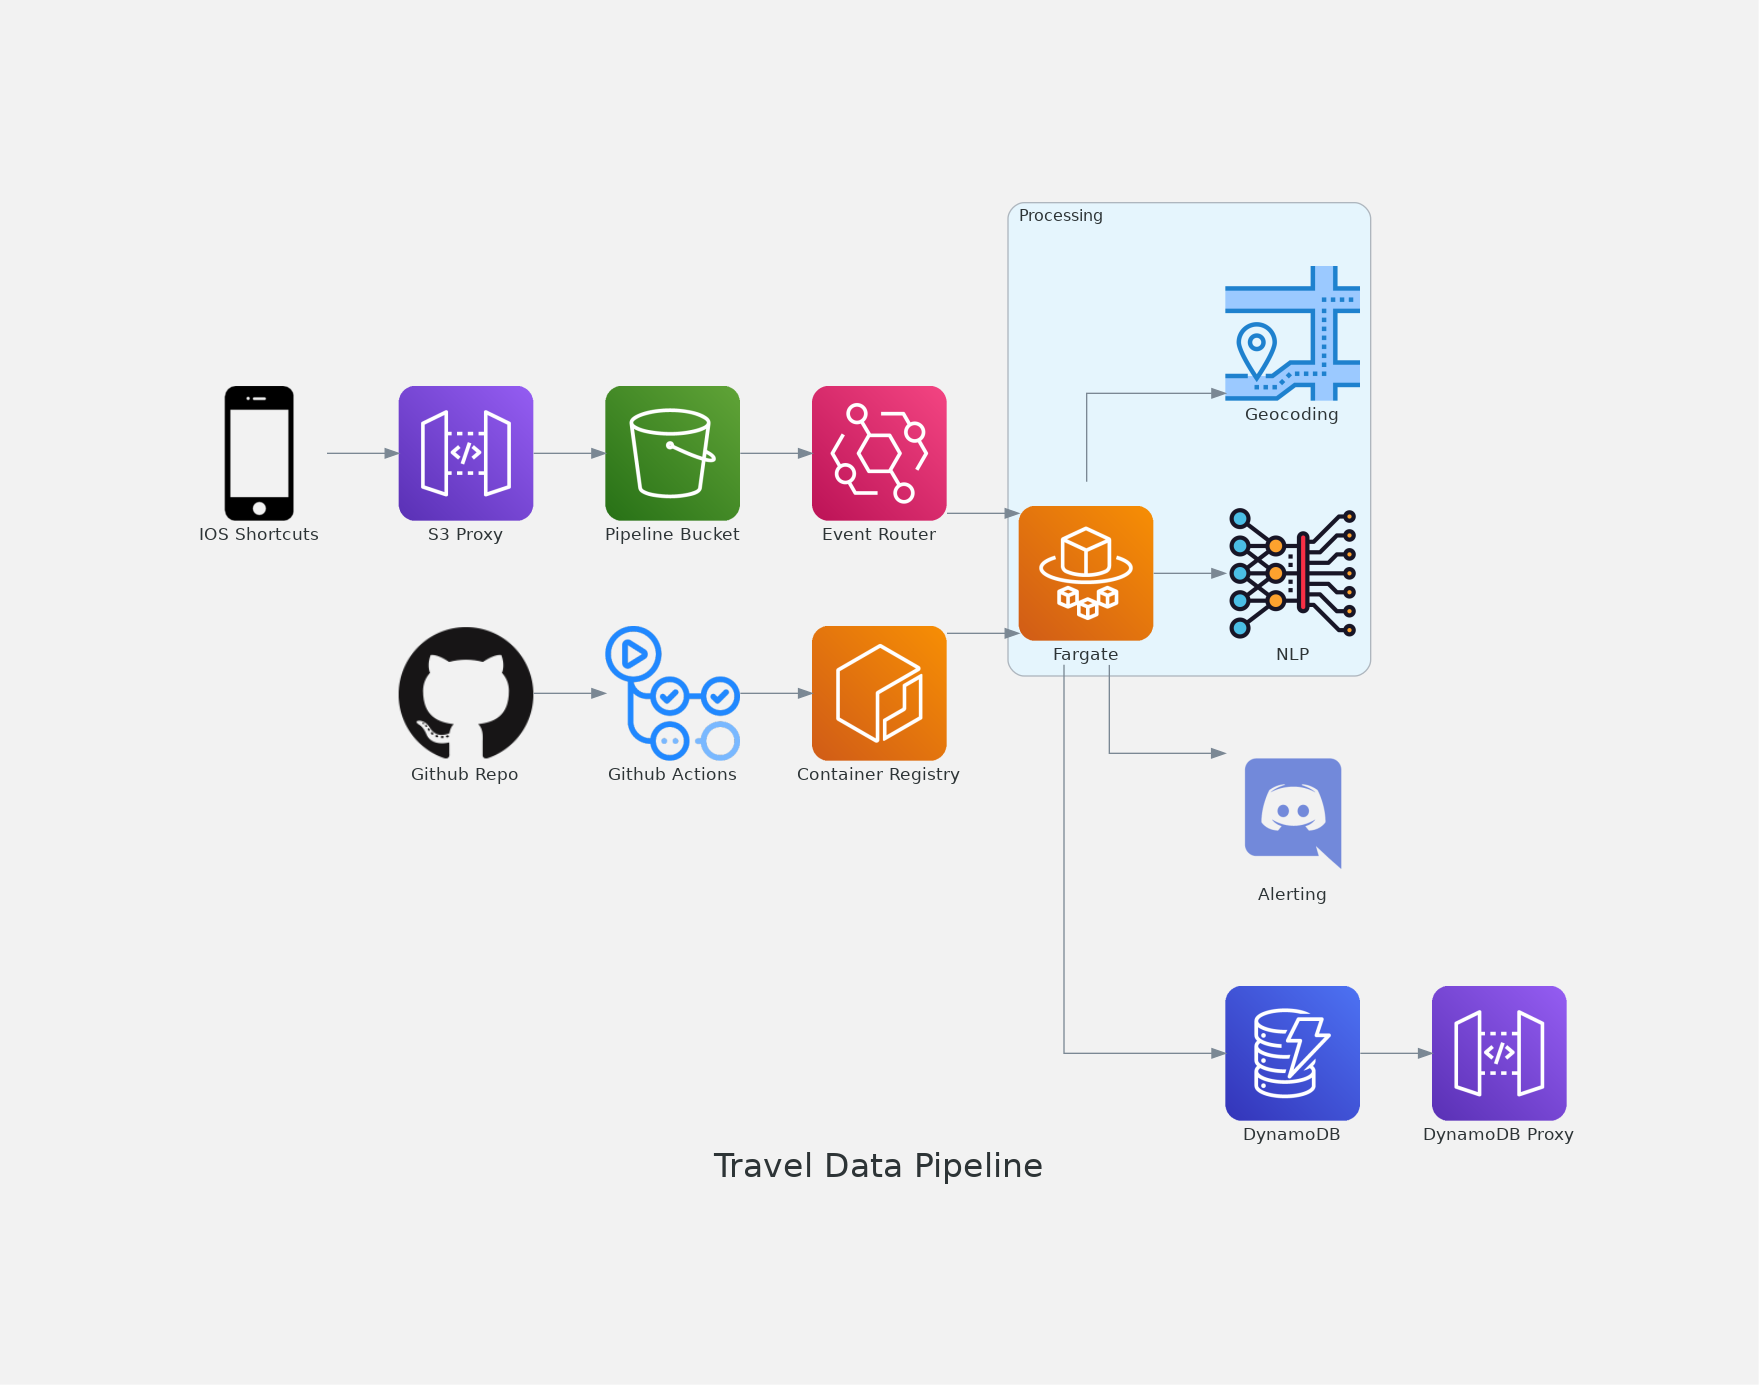
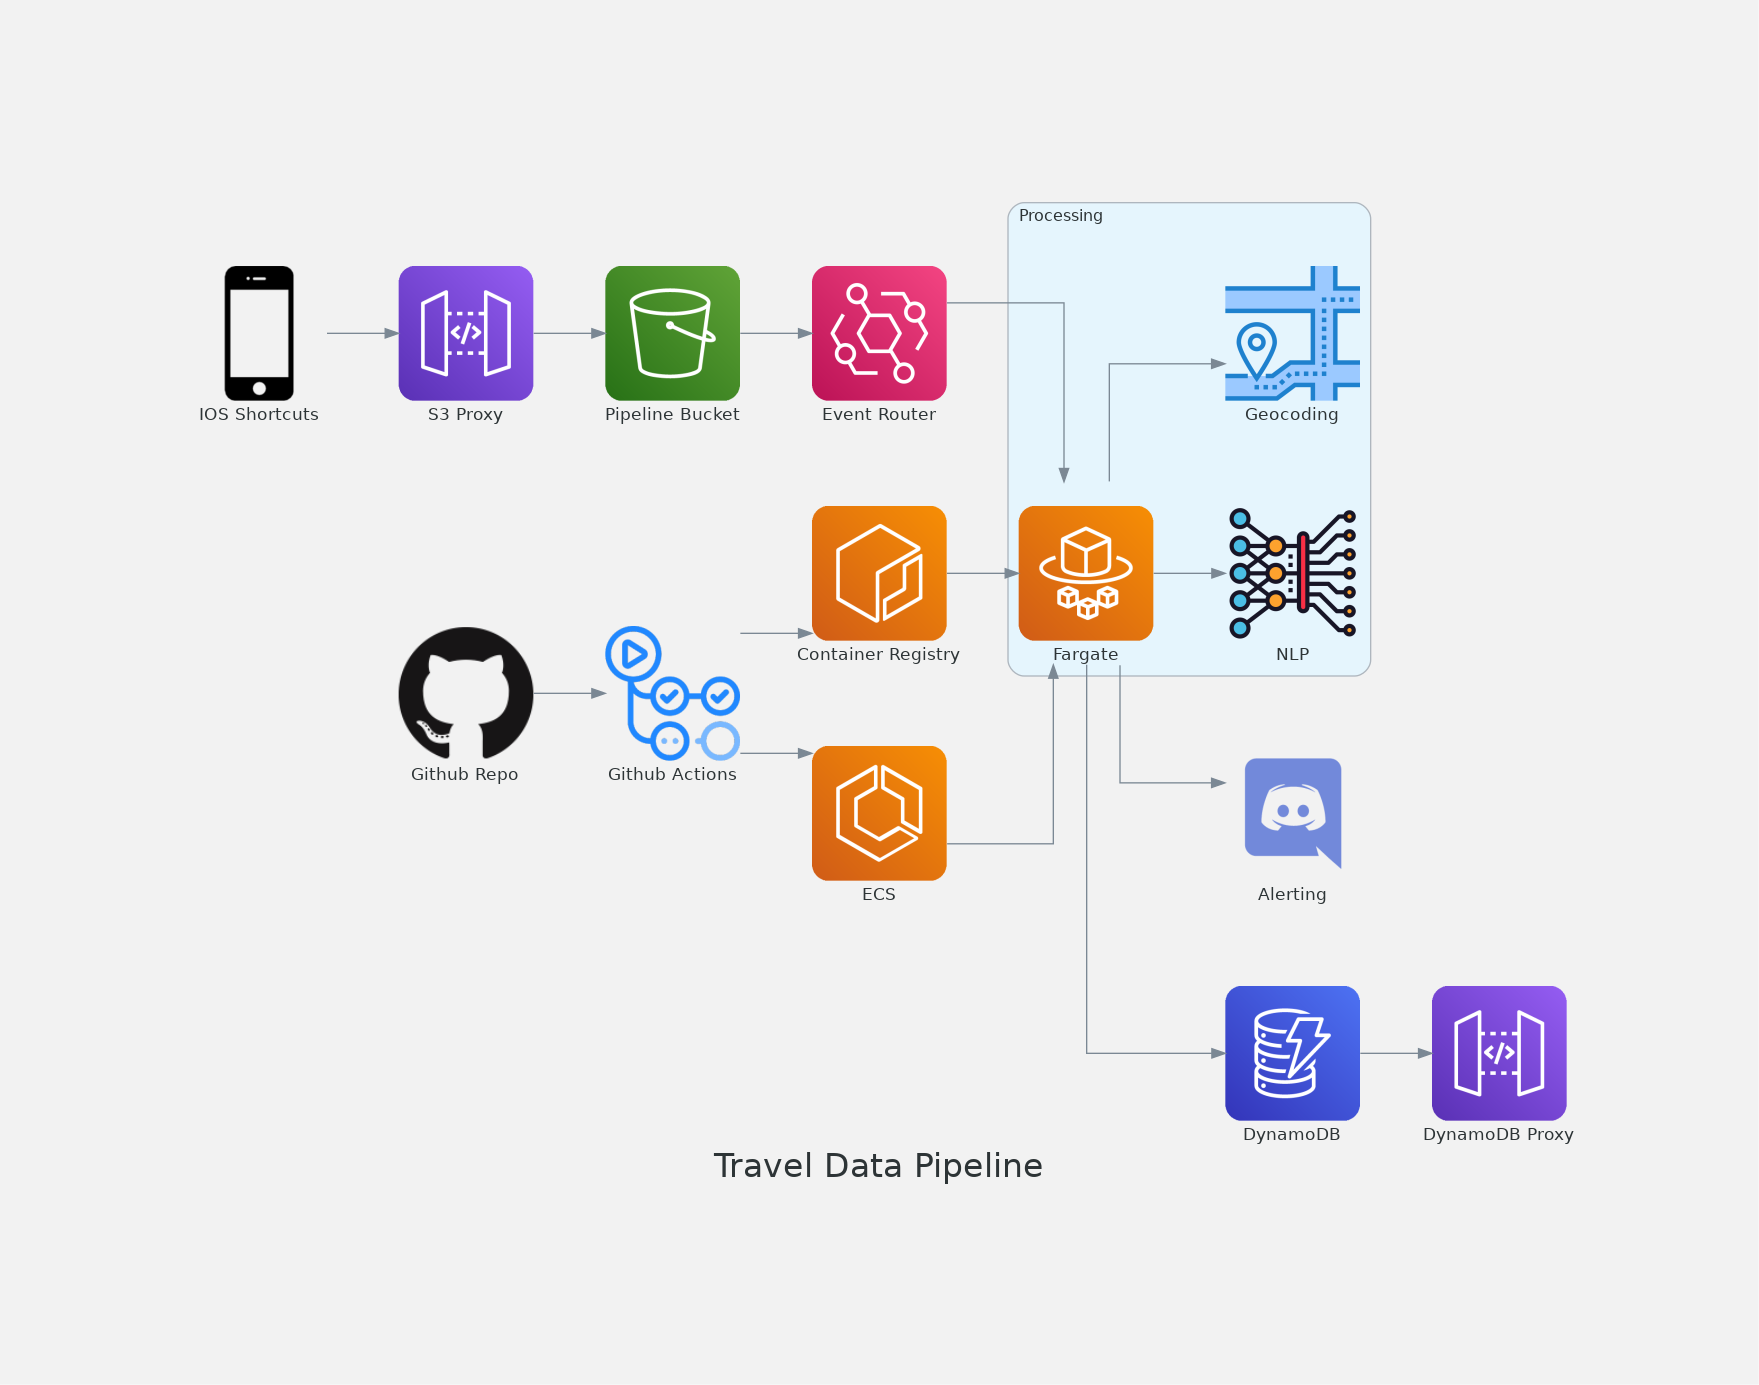
Added ECS to architecture diagram.

diff --git a/diagrams/architecture.py b/diagrams/architecture.py
@@ -7,6 +7,7 @@ from diagrams.aws.integration import Eventbridge
 from diagrams.aws.compute import Fargate
 from diagrams.aws.database import Dynamodb
 from diagrams.aws.compute import ECR
+from diagrams.aws.compute import ECS
 from diagrams.generic.device import Mobile
 from diagrams.custom import Custom
 from diagrams.saas.chat import Discord
@@ -40,6 +41,8 @@ with Diagram('Travel Data Pipeline', show=False, graph_attr=graph_attr):
     github = Custom('Github Repo', './resources/github.png')
     gh_actions = Custom('Github Actions', './resources/github_actions.png')
     ecr = ECR('Container Registry')
-    github >> gh_actions >> ecr >> fargate
+    ecs = ECS('ECS')
+    gh_actions >> ecr >> fargate
+    github >> gh_actions >> ecs >> fargate
 
     mobile >> s3_proxy >> s3 >> event_bridge >> fargate >> dynamodb >> ddb_proxy
